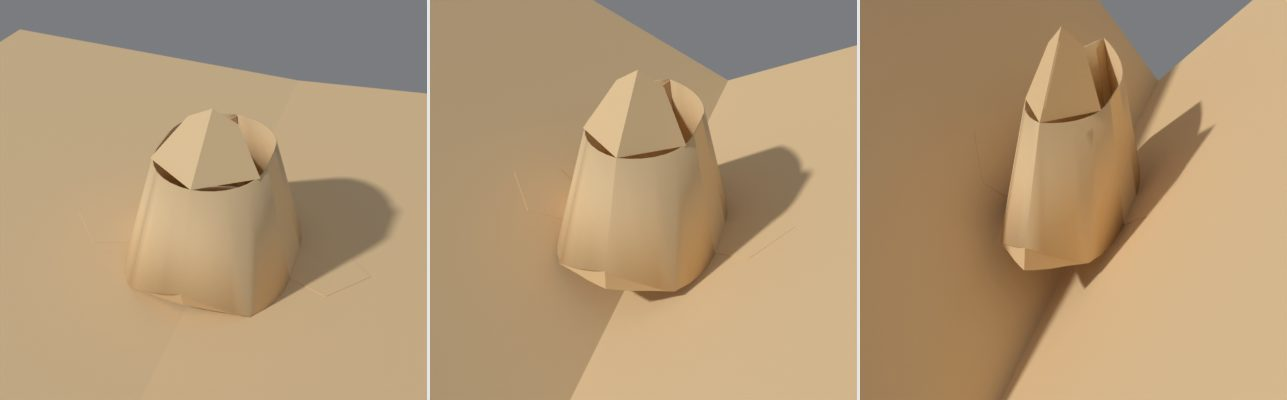
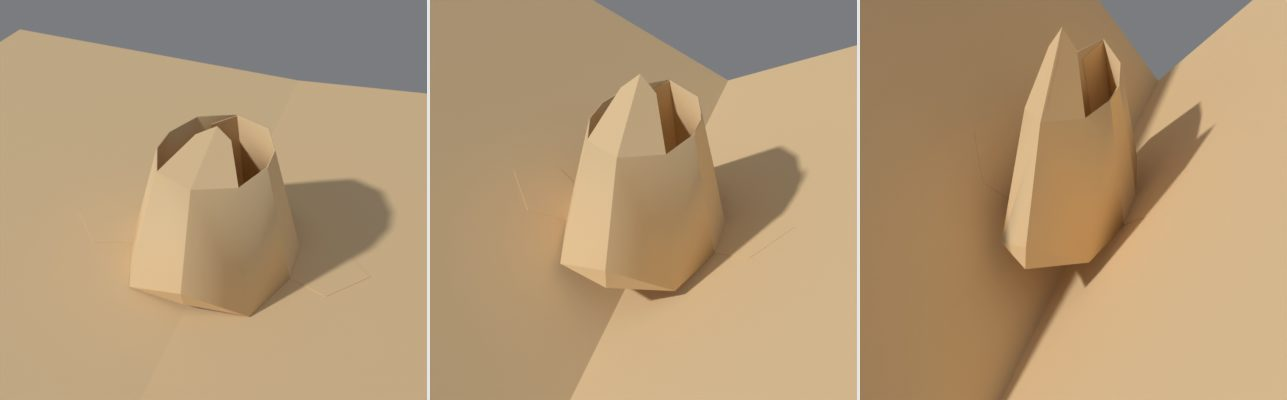
0.89.1: face loop in regular facets, muzzle and forehead with no gap; pair pictures on its top
Claude-Session: https://claude.ai/code/session_01C9mQ3UdpPG4HfxWumnBXkE

diff --git a/popup_pro/core/tubes.py b/popup_pro/core/tubes.py
@@ -198,6 +198,13 @@ class Tubes:
         a, y0 = float(m["x"]), float(m["y"])
         D, hb = max(2.0, float(m["depth"])), float(m["height"])
         n = ROUND_FACETS
+        if m.get("face"):
+            # a face's round ends in fewer, regular facets, the one each side
+            # of C as wide at the top as Muzzle Width: the muzzle is creased
+            # off that facet's top edge, and the forehead across it, so both
+            # meet the loop along a single straight edge
+            n = max(2, min(ROUND_FACETS, round(0.5 * math.pi * rt /
+                                               max(1.0, float(m.get("face_width", 18.0))))))
         if hb < 2.0:
             self.warn(f"{lab}: too low to make; skipped")
             return
@@ -463,15 +470,20 @@ class Tubes:
         kk = 1.0 if m.get("tab_side", "IN") == "IN" else -1.0
         if m.get("face"):
             kk = -1.0  # (ears: out from the loop)
-            j = max(1, min(n, round(float(m.get("face_width", 18.0)) /
-                                    max(1e-6, (Vector(pt2(n, 1.0 - f_top, n)) -
-                                               Vector(pt2(n + 1, 1.0 - f_top, n))).length))))
+            j = 1  # (the facet each side of C: its top edge is the muzzle's crease)
             top = pt2(n + 1, 1.0 - f_top, n)
             up2 = Vector(top) - Vector(pt2(n + 1, 1.0, n))
+            eL = pt2(n + 1 - j, 1.0 - f_top, n + 1 - j)
+            eR = pt2(n + 1 + j, 1.0 - f_top, n + j)
+            # its dart as wide as lets the muzzle lie back as the loop opens
+            # out (Nose Dart at most)
+            dm = self._dart_fit(P[names[n + 1][0]], Vector(top), P[names[n + 1 - j][0]],
+                                Vector(eL), P[names[n + j][0]], Vector(eR), up2,
+                                math.radians(max(0.0, min(60.0, float(m.get("face_dart", 15.0))))))
             self._muzzle(m, piece, P[names[n][0]], P[names[n + 1][0]], top, tuple(up2),
-                         (P[names[n + 1 - j][0]], pt2(n + 1 - j, 1.0 - f_top, n + 1 - j)),
-                         (P[names[n + j][0]], pt2(n + 1 + j, 1.0 - f_top, n + j)),
-                         join=min(tb, 0.3 * float(m.get("face_len", 22.0))))
+                         (P[names[n + 1 - j][0]], eL), (P[names[n + j][0]], eR),
+                         join=min(tb, 0.3 * float(m.get("face_len", 22.0))),
+                         dart_deg=math.degrees(dm))
             self._forehead(m, piece, P, names, n, pt2, f_top)
         for nm, i, pg, Tp, sx in (("FL_", 0, host.p1, host.T1, -1.0),
                                   ("FR_", 2 * n + 1, host.p2, host.T2, 1.0)):
@@ -641,6 +653,21 @@ class Tubes:
             self.fold_kind[frozenset((tp.name, names_[0]))] = "valley" if kk > 0 else \
                 "mountain"
 
+    def _dart_fit(self, pc_, O, pl_, endL, pr_, endR, up, dd):
+        """The widest dart (dd at most) a bite at O on a crease (up along it,
+        creased off to endL and endR, all in the panels' patterns) can close
+        at every opening: the seam needs the angle each crease makes with the
+        crease line to exceed the dart by half the angle between them."""
+        widest = 0.0
+        for t in list(self.samples) + [self.tmax]:
+            Pc = pc_.asm(t) @ Vector((O.x, O.y, 0.0))
+            gl = (pl_.asm(t) @ Vector((endL.x, endL.y, 0.0)) - Pc).normalized()
+            gr = (pr_.asm(t) @ Vector((endR.x, endR.y, 0.0)) - Pc).normalized()
+            widest = max(widest, 0.5 * gl.angle(gr))
+        up = Vector(up).to_2d()
+        th_ = min((endL.to_2d() - O.to_2d()).angle(up), (endR.to_2d() - O.to_2d()).angle(up))
+        return max(0.0, min(dd, th_ - widest - math.radians(1.0)))
+
     def _forehead(self, m, piece, P, names, n, pt2, f_top):
         """A face's forehead join (Birmingham's M under N): a bite out of the
         foot of the front crease C, Forehead Join up it, its edges stuck
@@ -662,8 +689,7 @@ class Tubes:
         down = foot - O
         # creased from there to the foot Muzzle Width out each side (the
         # book's M and N: small, either side of C's top)
-        fw = (Vector(pt2(iC, 1.0, n)) - Vector(pt2(iC - 1, 1.0, n))).length
-        j = max(1, min(n, round(float(m.get("face_width", 18.0)) / max(1e-6, fw))))
+        j = 1  # (across the facet each side of C, to its foot's far corner)
         endL = Vector(pt2(iC - j, 1.0, iC - j))
         endR = Vector(pt2(iC + j, 1.0, iC + j - 1))
         dd = math.radians(max(0.0, min(60.0, float(m.get("face_dart", 15.0)))))
@@ -671,14 +697,7 @@ class Tubes:
         # wide as lets it (Nose Dart at most)
         pl_, pr_ = P[names[iC - j][0]], P[names[iC + j - 1][0]]
         pc_ = P[names[iC][0]]
-        widest = 0.0
-        for t in list(self.samples) + [self.tmax]:
-            Pc = pc_.asm(t) @ Vector((O.x, O.y, 0.0))
-            gl = (pl_.asm(t) @ Vector((endL.x, endL.y, 0.0)) - Pc).normalized()
-            gr = (pr_.asm(t) @ Vector((endR.x, endR.y, 0.0)) - Pc).normalized()
-            widest = max(widest, 0.5 * gl.angle(gr))
-        th_ = min((endL - O).angle(down), (endR - O).angle(down))
-        dd = max(0.0, min(dd, th_ - widest - math.radians(1.0)))
+        dd = self._dart_fit(pc_, O, pl_, endL, pr_, endR, down, dd)
         polys = {}
         cut_by = {}
         for sx, end, rng in ((-1.0, endL, range(iC - j, iC)), (1.0, endR, range(iC, iC + j))):

diff --git a/scripts/render_views.py b/scripts/render_views.py
@@ -169,6 +169,11 @@ def rect_lid():
     return (0, 105, 25), 250, (0.35, -0.75, 0.55), (178.0, 140.0, 100.0)
 
 
+def face_close():
+    add("TUBE", variant="FACE")
+    return (0, 75, 20), 120, (0.35, -0.75, 0.55), (175.0, 130.0, 85.0)
+
+
 def pair():
     a = add("TUBE", variant="PAIR")
     a.y = 80.0
@@ -256,7 +261,7 @@ def on_riser():
     return (0, 105, 25), 260, (0.25, -0.9, 0.45), (175.0, 120.0, 70.0)
 
 
-SCENES = dict(strut_cutaway=strut_cutaway, rect_lid=rect_lid, strut_lid=strut_lid, turning_disc=turning_disc, disc_close=disc_close, disc_hidden=disc_hidden, lid_host=lid_host, pair=pair, turning_wheels=turning_wheels, jack_flat=jack_flat, bite_steps=bite_steps, beak_bite=beak_bite, swing_arm=swing_arm, swing_bare=swing_bare, swing_shut=swing_shut, house=house, on_riser=on_riser, flapping_arms=flapping_arms, vfold_bite=vfold_bite, animal_face=animal_face, box_ends=box_ends, slotted_sheet=slotted_sheet, collar_tiers=collar_tiers, loop_cone=loop_cone, cone_lid=cone_lid,
+SCENES = dict(strut_cutaway=strut_cutaway, rect_lid=rect_lid, strut_lid=strut_lid, turning_disc=turning_disc, disc_close=disc_close, disc_hidden=disc_hidden, lid_host=lid_host, pair=pair, face_close=face_close, turning_wheels=turning_wheels, jack_flat=jack_flat, bite_steps=bite_steps, beak_bite=beak_bite, swing_arm=swing_arm, swing_bare=swing_bare, swing_shut=swing_shut, house=house, on_riser=on_riser, flapping_arms=flapping_arms, vfold_bite=vfold_bite, animal_face=animal_face, box_ends=box_ends, slotted_sheet=slotted_sheet, collar_tiers=collar_tiers, loop_cone=loop_cone, cone_lid=cone_lid,
               angled_box=angled_box, cube_tower=cube_tower)
 
 

diff --git a/tests/test_book_v82.py b/tests/test_book_v82.py
@@ -239,9 +239,14 @@ assert "Tube1.BrowL" in M.panels and not warns(), warns()
 shown = props_shown(draw(ui.POPUP_PT_mechs))
 assert {"muzzle", "face_width", "face_len", "face_dart", "face_brow", "face_nose", "face_dia",
         "face_clock"} <= set(shown), shown
-f.face_dart = 45.0
-bpy.ops.popup.build()
-assert any("dart is too wide" in w for w in warns()), warns()
+f.face_dart = 45.0  # (on a face's loop, the darts narrow to what opens flat)
+M = built("Tube")
+assert not warns(), warns()
+# the muzzle meets the loop along the top edge of the facet each side of C
+for t in M.samples:
+    N, G = world(M, "Tube1.NoseL", t), world(M, "Tube1.GFL" + str(len(
+        [n for n in M.panels if n.startswith("Tube1.GFL")])), t)
+    assert len([w for w in N if min((w - v).length for v in G) < 0.05]) >= 2, t
 f.face_dart, f.front_style, f.front = 15.0, "OUT", 45.0  # a pointed front: flat cheeks
 M = built("Tube")
 assert "Tube1.NoseL" in M.panels

diff --git a/popup_pro/props.py b/popup_pro/props.py
@@ -1,4 +1,5 @@
 import math
+import re
 
 import bpy
 from bpy.props import (BoolProperty, CollectionProperty, EnumProperty,
@@ -1056,8 +1057,8 @@ def pic_faces(st, uid):
         return out
     from .core.align import uid_of
     for p in meta["panels"]:
-        if p["kind"] == "tab":
-            continue
+        if p["kind"] == "tab" or re.search(r"\.Leg[LR]\d+$", p["name"]):
+            continue  # (a back-to-back pair's bend: its top takes the pictures)
         u = uid_of(p["name"]) or 0
         if (uid == 0 and p["kind"] == "page") or (uid and u == uid and p["kind"] != "page"):
             label = p["label"].split(": ", 1)[-1]

diff --git a/tests/test_book_v89.py b/tests/test_book_v89.py
@@ -110,6 +110,7 @@ p = add("PICTURE")
 p.host_uid = 1
 items = [i[0] for i in props.pic_face_items(p, bpy.context)]
 assert "Tube1.TopL" in items and "Tube1b.TopR" in items, items
+assert items[0] == "Tube1.TopL" and not [i for i in items if ".Leg" in i], items
 print("a back-to-back pair on parallel strips")
 
 addon.unregister()

diff --git a/docs/guide.md b/docs/guide.md
@@ -263,14 +263,18 @@ out or forward). From the **+** menu it comes a little conical (**Lean**
 
 A round loop's face is cut as Birmingham's pattern: one band, symmetric
 about the centre crease C, its ends joined at the back of the loop by a tab
-(the book's K under L). Its measures, in the panel:
+(the book's K under L). Its round ends are a few regular facets, the one
+each side of C as wide at the top as Muzzle Width (rounded to a whole
+number of facets round the loop): the muzzle is creased off that facet's
+top edge and the forehead across it, so each meets the loop along one
+straight crease with no gap. Both darts are as wide as let them close at
+every opening (Nose Dart at most). Its measures, in the panel:
 
 * **Loop Diameter**: across the loop at the page.
 * **Forehead Join**: how far up C from the forehead's edge its sides are
   joined (the book's M under N): a bite out of the foot of C, its edges stuck
-  together by a tab, each side creased from there to the edge Muzzle Width
-  out. The dart is as wide as lets the forehead open out flat with the loop
-  (Nose Dart at most). 0 leaves the forehead an open arch.
+  together by a tab, each side creased from there across the facet beside C
+  to its foot's far corner. 0 leaves the forehead an open arch.
 * **Nose Crease**: C between the eyes, from the forehead join to the muzzle.
 * **Muzzle Join**: the muzzle's seam, held by a tab (the book's H under J).
 
@@ -294,7 +298,8 @@ tabs out from the fold or in under the legs. The bend is low poly: each leg
 a run of narrow facets round a circular arc, upright where the pieces meet;
 shut, the legs are straight, and open flat they bend furthest. The legs must
 be at least 1.4 times the strip distance to reach the strips (Checks says
-so). Paste a parrot, a tree or a figure on either side of the top.
+so). Paste a parrot, a tree or a figure on either side of the top: a
+picture on the pair goes on the top (the legs aren't offered).
 
 ![A back-to-back pair, at 178, 130 and 80 degrees](images/pair.jpg)
 

diff --git a/CHANGELOG.md b/CHANGELOG.md
@@ -3,6 +3,13 @@
 Newest first. `python scripts/since_upload.py` shows what has changed since the
 last upload to GitHub.
 
+* **0.89.1**: the animal face's round ends are a few regular facets, the
+  one each side of C as wide at the top as Muzzle Width: the muzzle creases
+  off that facet's top edge and the forehead across the facet, so neither
+  leaves a gap against the loop. The muzzle's dart, like the forehead's,
+  narrows to what lets it close at every opening (Nose Dart at most) rather
+  than warning. Pictures on a back-to-back pair go on its top, not the
+  first facet of its bend.
 * **0.89.0**: the **Animal Face** on a round loop is cut as Birmingham's
   pattern: one band symmetric about the centre crease C, joined at the back
   of the loop (K under L); a **Forehead Join** up the foot of C, a bite stuck

diff --git a/README.md b/README.md
@@ -257,13 +257,14 @@ Sunflower is a good way to make them.
 
 ## Version history
 
+* **0.89.1**: the face's loop in a few regular facets, the muzzle and
+  forehead creased along whole facets (no gap); a pair's pictures go on its
+  top.
 * **0.89**: the animal face cut as Birmingham's pattern, with its forehead
   join, nose crease, muzzle join, loop diameter and ears round the face; two
   pieces glued back to back on parallel strips.
 * **0.88.3**: a dipped lid's crease is a fold to stand on; the turning
   disc's L piece is one piece, bending round the corner.
-* **0.88.2**: the strut redone as the book's: a V-fold strut holding a
-  rectangle's dipped lid; the turning disc can be hidden.
 
 Earlier versions are in the [changelog](CHANGELOG.md).
 
